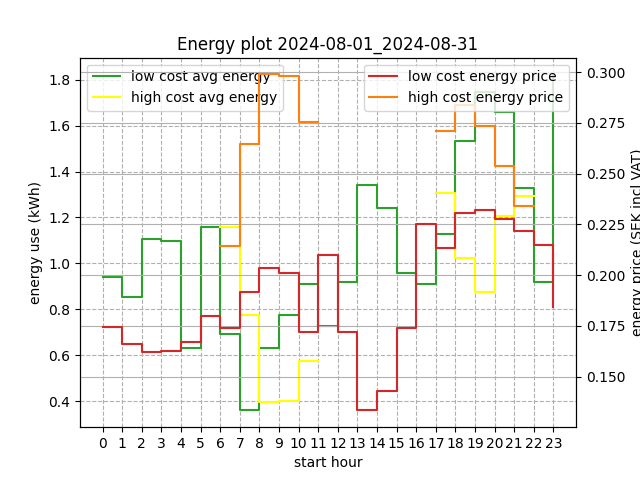
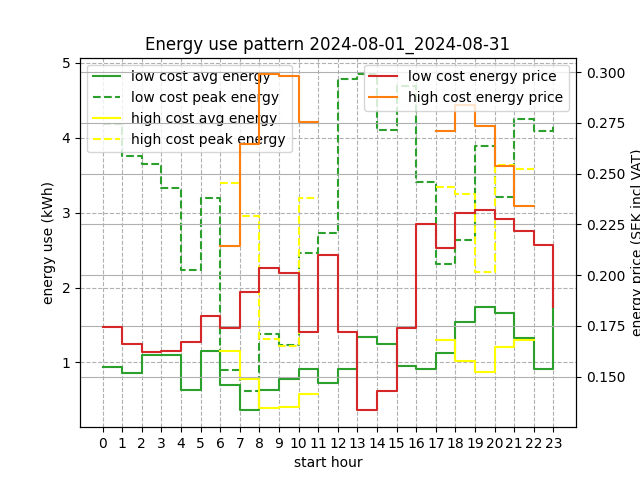
Plot also peak power use

diff --git a/tibber_easee_peak_power_analyzer.py b/tibber_easee_peak_power_analyzer.py
@@ -21,7 +21,7 @@ import tibber  # pip install pyTibber (min 0.30.3 - supporting python 3.11 or la
 EASEE_API_ACCESS_TOKEN = None  # Leave as None to analyze without ignoring EV
 EASEE_CHARGER_ID = "EHVZ2792"
 NORDPOOL_PRICE_CODE = "SEK"
-START_DATE = datetime.date.fromisoformat("2025-05-01")  # None for one month back
+START_DATE = datetime.date.fromisoformat("2024-05-01")  # None for one month back
 API_TIMEOUT = 10.0  # seconds
 EASEE_API_BASE = "https://api.easee.com/api"
 HTTP_SUCCESS_CODE = 200
@@ -84,17 +84,27 @@ def get_irradiance_observation():
     return None
 
 
-def render_visualization(
-    start_date, low_prices, low_avg_cons, high_prices, high_avg_cons
-):
+def render_visualization(start_date, low_prices, low_cons, high_prices, high_cons):
     low_p_color = "tab:red"
     high_p_color = "tab:orange"
     low_e_color = "tab:green"
     high_e_color = "#ffff00"
 
     x = np.arange(0, 24)
-    y1 = np.array(low_avg_cons)
-    y2 = np.array(high_avg_cons)
+    low_avg_cons = []
+    low_peak_cons = []
+    for cons in low_cons:
+        low_avg_cons.append(cons["avg"])
+        low_peak_cons.append(cons["max"])
+    high_avg_cons = []
+    high_peak_cons = []
+    for cons in high_cons:
+        high_avg_cons.append(cons["avg"])
+        high_peak_cons.append(cons["max"])
+    low_avg = np.array(low_avg_cons)
+    low_peak = np.array(low_peak_cons)
+    high_avg = np.array(high_avg_cons)
+    high_peak = np.array(high_peak_cons)
     fig, axes = plt.subplots()
     plt.xticks(x)
     price_twin = axes.twinx()
@@ -118,17 +128,41 @@ def render_visualization(
     price_twin.legend(loc="upper right")
 
     axes.plot(
-        x, y1, color=low_e_color, label="low cost avg energy", drawstyle="steps-post"
+        x,
+        low_avg,
+        color=low_e_color,
+        label="low cost avg energy",
+        drawstyle="steps-post",
     )
     axes.plot(
-        x, y2, color=high_e_color, label="high cost avg energy", drawstyle="steps-post"
+        x,
+        low_peak,
+        color=low_e_color,
+        label="low cost peak energy",
+        drawstyle="steps-post",
+        linestyle="--",
+    )
+    axes.plot(
+        x,
+        high_avg,
+        color=high_e_color,
+        label="high cost avg energy",
+        drawstyle="steps-post",
+    )
+    axes.plot(
+        x,
+        high_peak,
+        color=high_e_color,
+        label="high cost peak energy",
+        drawstyle="steps-post",
+        linestyle="--",
     )
     axes.set_xlabel("start hour")
     axes.set_ylabel("energy use (kWh)")
     axes.grid(linestyle="--")
     axes.legend(loc="upper left")
 
-    plt.title(f"Energy plot {start_date}")
+    plt.title(f"Energy use pattern {start_date}")
     plt.savefig(f"{start_date}.png")
     # plt.show()
 
@@ -340,9 +374,9 @@ async def start():
         print("\nPower use distribution with EV charging excluded:")
 
     high_prices = []
-    high_avg_cons = []
+    high_cons = []
     low_prices = []
-    low_avg_cons = []
+    low_cons = []
     for hour in range(24):
         high_str = ""
         if hour in high_power_hour_samples:
@@ -352,36 +386,46 @@ async def start():
                 price_list.append(list(hour_sample.values())[0])
                 consumption_list.append(list(hour_sample.keys())[0])
             high_prices.append(statistics.fmean(price_list))
-            high_avg_cons.append(statistics.fmean(consumption_list))
+            high_cons.append(
+                {
+                    "avg": statistics.fmean(consumption_list),
+                    "max": sorted(consumption_list)[-1],
+                }
+            )
             high_str = (
-                f".  High Avg: {(statistics.fmean(consumption_list)):.2f} kW"
+                f".  High Avg: {high_cons[hour]['avg']:.2f} kW"
                 + f" @{high_prices[hour]:.2f} SEK/kWh."
-                + f" Peak: {sorted(consumption_list)[-1]:.2f} kWh/h"
+                + f" Peak: {high_cons[hour]['max']:.2f} kWh/h"
             )
         else:
             high_prices.append(None)
-            high_avg_cons.append(None)
+            high_cons.append({"avg": None, "max": None})
         price_list = []
         consumption_list = []
         for hour_sample in power_hour_samples[hour]:
             price_list.append(list(hour_sample.values())[0])
             consumption_list.append(list(hour_sample.keys())[0])
         low_prices.append(statistics.fmean(price_list))
-        low_avg_cons.append(statistics.fmean(consumption_list))
+        low_cons.append(
+            {
+                "avg": statistics.fmean(consumption_list),
+                "max": sorted(consumption_list)[-1],
+            }
+        )
         print(
             f"{hour:2}-{(hour+1):2}  Low Avg: "
-            + f"{low_avg_cons[hour]:.2f} kW"
+            + f"{low_cons[hour]['avg']:.2f} kW"
             + f" @{low_prices[hour]:.2f} SEK/kWh."
-            + f" Peak: {sorted(consumption_list)[-1]:.2f} kWh/h"
+            + f" Peak: {low_cons[hour]['max']:.2f} kWh/h"
             + high_str
         )
 
     render_visualization(
         f"{str(local_dt_from)[:10]}_{str(local_dt_to)[:10]}",
         low_prices,
-        low_avg_cons,
+        low_cons,
         high_prices,
-        high_avg_cons,
+        high_cons,
     )
 
     if irradiance is not None:

diff --git a/power_plots/README.md b/power_plots/README.md
@@ -7,6 +7,13 @@ Data collection with EV charging excluded (since easy to move in time and restri
 
 Data logging and saving calculations at https://github.com/sander-visser/py-playground/blob/main/tibber_easee_peak_power_analyzer.log
 
+---
+One year ago:
+<img src="2024-05-01_2024-05-31.png">
+
+---
+
+Last 12 months
 <img src="2025-05-01_2025-05-31.png">
 <img src="2025-04-01_2025-04-30.png">
 <img src="2025-03-01_2025-03-31.png">
